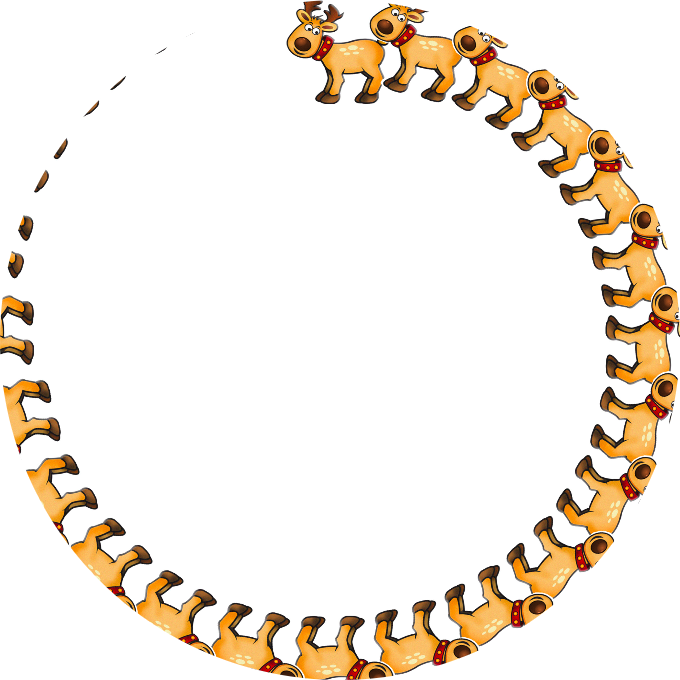
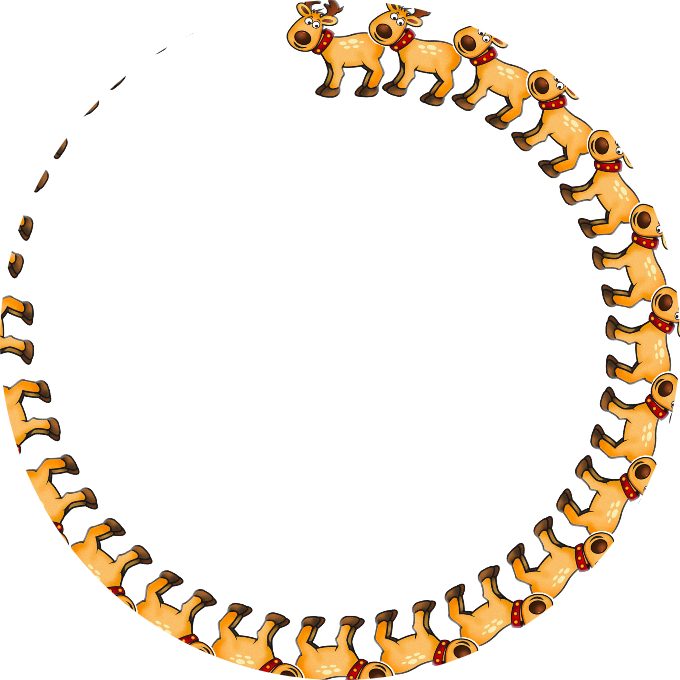
Smoothened cuts

Changed region(s): [[0.4015, 0.0, 0.6794, 0.1544]]

diff --git a/height-testing.html b/height-testing.html
@@ -31,7 +31,7 @@
 </html>
 
 <script type="text/javascript">
-var field={width:1570, height:770};
+var field={width:1240, height:470};
 var fieldcolor="white";
 var reindeer=new Image();
 reindeer.src="Reindeer.png";
@@ -43,7 +43,9 @@ var deerheight=150;
 var fps=65;
 var innerwidth=668;
 
-var cutoff=[0.03, 0.2, 0.265, 0.277, 0.289, 0.297, 0.305, 0.32, 0.33, 0.34, 0.35, 0.375, 0.4, 0.44, 0.48, 0.49, 0.53, 0.56, 0.68, 0.86, 0.93, 0.96, 0.985, 1];
+var cutoff=[0.09, 0.16, 0.265, 0.277, 0.289, 0.297, 0.305, 0.32, 0.33, 0.34, 0.35, 0.375, 0.4, 0.44, 0.48, 0.49, 0.53, 0.56, 0.68, 0.86, 0.93, 0.96, 0.985, 1];
+
+cutoff[-1]=0;
 
 var canvas = document.getElementById("canvas"),
     ctx = canvas.getContext("2d");
@@ -57,8 +59,8 @@ function draw(){
 	ctx.fillRect(0, 0, field.width, field.height);
 
 	for(var i=0; i<deernumber; i++){
-		ctx.drawImage(reindeer, 0, 0, 232, cutoff[i]*250, 0+(i%8)*deerwidth, 0+Math.floor(i/8)*deerheight, deerwidth, cutoff[i]*deerheight);
-		ctx.drawImage(reindeer, 0, cutoff[i+1]*250, 232, 250, 0+(i%8)*deerwidth, cutoff[i]*deerheight+Math.floor(i/8)*deerheight, deerwidth, deerheight);
+		if(i!=0){ctx.drawImage(reindeer, 0, 0, 232, cutoff[i-1]*250, 0+(i%8)*deerwidth, 0+Math.floor(i/8)*deerheight, deerwidth, cutoff[i-1]*deerheight);}
+		ctx.drawImage(reindeer, 0, cutoff[i]*250, 232, 250, 0+(i%8)*deerwidth, cutoff[i-1]*deerheight+Math.floor(i/8)*deerheight, deerwidth, deerheight);
 	}
 
 	setTimeout(draw, 1000/fps);

diff --git a/index.html b/index.html
@@ -59,7 +59,7 @@ var midcountpause=20;
 var postcountpause=180;
 var questiontime=300;
 
-var cutoff=[0.03, 0.2, 0.265, 0.277, 0.289, 0.297, 0.305, 0.32, 0.33, 0.34, 0.35, 0.375, 0.4, 0.44, 0.48, 0.49, 0.53, 0.56, 0.68, 0.86, 0.93, 0.96, 0.985, 1];
+var cutoff=[0.09, 0.16, 0.265, 0.277, 0.289, 0.297, 0.305, 0.32, 0.33, 0.34, 0.35, 0.375, 0.4, 0.44, 0.48, 0.49, 0.53, 0.56, 0.68, 0.86, 0.93, 0.96, 0.985, 1];
 
 var textpos1=[425, 190, 485, 165, 548, 167, 605, 195, 655, 230, 690, 280, 715, 345, 720, 405, 713, 468, 670, 530, 637, 577, 585, 612, 525, 642, 455, 655, 390, 645, 330, 618, 275, 580, 233, 527, 196, 466, 169, 387, 173, 305, 203, 229, 253, 165, 315, 116]
 
@@ -75,6 +75,12 @@ function draw(){
 
 	ctx.fillStyle=fieldcolor;
 	ctx.fillRect(0, 0, field.width, field.height);
+
+/*	ctx.beginPath();
+	ctx.arc(field.width/2, field.height/2, 340, 0, 2 * Math.PI, false);
+	ctx.lineWidth = 1;
+	ctx.strokeStyle = "black";
+	ctx.stroke(); */
 
 	for(var i=0; i<deernumber-1; i++){
 		ctx.save();
